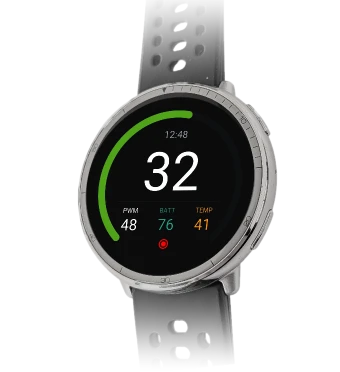
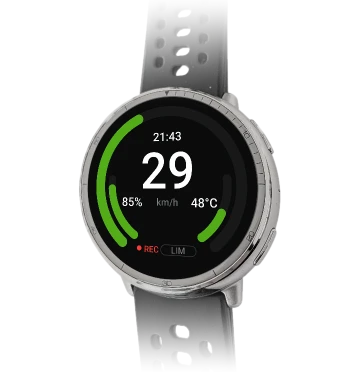
Home: default layouts in the hero, portal chart style, Garmin dashboard note
- Hero: no feature callouts; both watches show their default dashboards
  (Amazfit rebuilt from mainUI.js DefaultUI), more space between them,
  brand/model captions, Amazfit dial straightened so the screen is upright.
- Hero plot: Ride Portal metric colours and 2px lines, speed as a faded
  area, no grid; colours shared as --wd-chart-* tokens.
- Your layout: Garmin App capture with a note that the Garmin dashboard is
  fixed and custom layouts are Amazfit only.
- Fix watch-face bezels being taller than wide (theme image margin).

Claude-Session: https://claude.ai/code/session_0113Rbw9K8vn8adzvCaMpYEK

diff --git a/assets/css/main.scss b/assets/css/main.scss
@@ -20,6 +20,9 @@ search: false
   --wd-red-dark: #b91c1c;
   --wd-blue: #60a5fa;
   --wd-green: #34d399;
+  --wd-chart-speed: #3b82f6;
+  --wd-chart-battery: #10b981;
+  --wd-chart-temp: #f87171;
   --wd-amber: #fbbf24;
   --wd-radius: 16px;
   --vesc-blue: #079ed5;
@@ -101,43 +104,25 @@ p.wd-hero__lead { max-width: 620px; margin: 2rem 0; color: #bcc4cf; font-size: c
 .wd-hero__availability a span { color: var(--wd-red); }
 .wd-hero__availability a:hover { color: var(--wd-text); }
 .wd-hero__visual { position: relative; overflow: hidden; border: 1px solid var(--wd-border); border-radius: 22px; background: var(--wd-surface); box-shadow: 0 30px 90px rgba(0,0,0,.4); }
-.wd-hero__visual.wd-hero__watch { position: relative; width: 100%; max-width: 620px; margin-left: auto; overflow: visible; border: 0; border-radius: 0; background: none; box-shadow: none; aspect-ratio: 1390/1280; container-type: inline-size; }
+.wd-hero__visual.wd-hero__watch { position: relative; width: 100%; max-width: 620px; margin-left: auto; overflow: visible; border: 0; border-radius: 0; background: none; box-shadow: none; aspect-ratio: 1078/1280; container-type: inline-size; }
 .wd-hero__watch::before { position: absolute; z-index: 0; inset: -14% -22% -8%; background: radial-gradient(closest-side,rgba(70,86,112,.42),transparent 72%); content: ""; pointer-events: none; }
 .wd-hero__watch::after { position: absolute; z-index: 0; top: 43%; left: 30%; width: 127%; aspect-ratio: 1; background: radial-gradient(closest-side,transparent 79%,rgba(141,153,170,.14) 79.5%,transparent 80.2%,transparent 99%,rgba(141,153,170,.12) 99.6%,transparent 100%); content: ""; pointer-events: none; transform: translate(-50%,-50%); }
 .wd-hero__watch img { position: relative; z-index: 1; display: block; width: 100%; height: auto; }
-.wd-callouts { position: absolute; z-index: 3; inset: 0; margin: 0; padding: 0; list-style: none; }
-.wd-callout { position: absolute; top: var(--y); left: 0; width: 100%; height: 0; margin: 0; padding: 0; animation: wd-tag-in .7s both; }
-.wd-callout:nth-child(2) { animation-delay: .12s; }
-.wd-callout:nth-child(3) { animation-delay: .24s; }
-.wd-callout:nth-child(4) { animation-delay: .36s; }
-.wd-callout__lead { position: absolute; top: 0; left: var(--l); width: var(--w); height: 1px; background: rgba(141,153,170,.5); }
-.wd-callout__lead::before { position: absolute; top: -3.5px; left: -4px; width: 8px; height: 8px; border: 1.5px solid var(--wd-bg); border-radius: 50%; background: var(--c); box-sizing: border-box; content: ""; }
-.wd-callout.is-left .wd-callout__lead::before { right: -4px; left: auto; }
-.wd-callout__tag { position: absolute; top: 0; left: var(--tl); display: flex; width: var(--tw); min-width: 0; padding: 1.5cqw 1.9cqw; flex-direction: column; gap: .5cqw; border: 1px solid var(--wd-border); border-radius: 1.3cqw; background: rgba(14,19,26,.88); backdrop-filter: blur(6px); transform: translateY(-50%); }
-.wd-callout__tag span { color: var(--wd-muted); font-family: "JetBrains Mono", ui-monospace, monospace; font-size: max(.5rem,1.6cqw); letter-spacing: .14em; text-transform: uppercase; }
-.wd-callout__tag strong { color: var(--c); font-size: max(.9rem,3.5cqw); font-weight: 650; line-height: 1; }
-.wd-callout__tag small { color: var(--wd-muted); font-family: "JetBrains Mono", ui-monospace, monospace; font-size: .5em; font-weight: 500; text-transform: uppercase; }
-.wd-callout.is-white { --c: var(--wd-text); }
-.wd-callout--text .wd-callout__tag strong { font-size: max(.74rem,2.3cqw); font-weight: 650; line-height: 1.2; white-space: nowrap; }
-.wd-callout.is-green { --c: var(--wd-green); }
-.wd-callout.is-blue { --c: var(--wd-blue); }
-.wd-callout.is-amber { --c: var(--wd-amber); }
+p.wd-hero__model { position: absolute; z-index: 2; bottom: -.4rem; left: var(--x); margin: 0; color: var(--wd-muted); font-family: "JetBrains Mono", ui-monospace, monospace; font-size: .62rem; letter-spacing: .14em; text-transform: uppercase; white-space: nowrap; transform: translateX(-50%); }
 @media (min-width: 1025px) { .wd-hero { padding-left: clamp(1.5rem, calc((100vw - 1280px) / 2 + 1.5rem), calc(40px + 1.5rem)); } }
-@keyframes wd-tag-in { from { opacity: 0; } }
-@media (prefers-reduced-motion: reduce) { .wd-callout { animation: none; } }
 .wd-trace { max-width: 1280px; margin: -1rem auto 2.5rem; padding: 0 1.5rem; }
 .wd-trace svg { display: block; width: 100%; height: 90px; overflow: visible; }
-.wd-trace__grid { fill: none; stroke: rgba(141,153,170,.12); stroke-width: 1; vector-effect: non-scaling-stroke; }
-.wd-trace__line { fill: none; stroke-linejoin: round; vector-effect: non-scaling-stroke; }
-.wd-trace__line--speed { stroke: var(--wd-green); stroke-width: 1.75; }
-.wd-trace__line--battery { stroke: var(--wd-blue); stroke-opacity: .6; stroke-width: 1.25; }
-.wd-trace__line--temp { stroke: var(--wd-amber); stroke-opacity: .6; stroke-width: 1.25; }
+.wd-trace__area { fill: url(#wd-trace-fill); stroke: none; }
+.wd-trace__line { fill: none; stroke-linejoin: round; stroke-linecap: round; stroke-width: 2; vector-effect: non-scaling-stroke; }
+.wd-trace__line--speed { stroke: var(--wd-chart-speed); }
+.wd-trace__line--battery { stroke: var(--wd-chart-battery); stroke-opacity: .85; }
+.wd-trace__line--temp { stroke: var(--wd-chart-temp); stroke-opacity: .85; }
 p.wd-trace__legend { display: flex; margin: .7rem 0 0; flex-wrap: wrap; align-items: center; gap: .4rem 1.1rem; color: var(--wd-muted); font-family: "JetBrains Mono", ui-monospace, monospace; font-size: .62rem; letter-spacing: .13em; text-transform: uppercase; }
 .wd-trace__legend i { display: inline-flex; align-items: center; gap: .4rem; font-style: normal; }
-.wd-trace__legend i::before { width: 14px; height: 2px; background: var(--c); content: ""; }
-.wd-trace__legend .is-green { --c: var(--wd-green); }
-.wd-trace__legend .is-blue { --c: var(--wd-blue); }
-.wd-trace__legend .is-amber { --c: var(--wd-amber); }
+.wd-trace__legend i::before { width: 14px; height: 2px; border-radius: 1px; background: var(--c); content: ""; }
+.wd-trace__legend .is-speed { --c: var(--wd-chart-speed); }
+.wd-trace__legend .is-battery { --c: var(--wd-chart-battery); }
+.wd-trace__legend .is-temp { --c: var(--wd-chart-temp); }
 .wd-dashboards { border-top: 1px solid var(--wd-border); }
 .wd-dash-builder { display: grid; margin-bottom: 2.5rem; grid-template-columns: minmax(0,1fr) minmax(0,1fr); align-items: center; gap: clamp(2rem,5vw,4.5rem); }
 .wd-dash-anno { width: 100%; max-width: 520px; margin: 0; justify-self: center; }
@@ -166,36 +151,32 @@ ol.wd-dash-legend { display: grid; margin: 0; padding: 0; grid-template-columns:
 .wd-dash-face { display: flex; margin: 0; padding: 1.6rem 1.4rem 1.4rem; flex-direction: column; align-items: center; justify-content: space-between; gap: 1.2rem; border: 1px solid var(--wd-border); border-radius: var(--wd-radius); background: var(--wd-surface); }
 .wd-dash-face__bezel { box-sizing: border-box; width: 100%; max-width: 250px; aspect-ratio: 1; padding: 7px; border: 2px solid #2a3342; border-radius: 50%; background: #1a2029; box-shadow: 0 8px 22px rgba(0,0,0,.35); }
 .wd-dash-face--square .wd-dash-face__bezel { max-width: 230px; aspect-ratio: auto; border-radius: 34px; }
-.wd-dash-face__bezel img { display: block; width: 100%; height: auto; border-radius: 50%; }
+.wd-dash-face__bezel img { display: block; width: 100%; height: auto; margin: 0; border-radius: 50%; }
 .wd-dash-face--square .wd-dash-face__bezel img { border-radius: 26px; }
 .wd-dash-face figcaption { display: grid; gap: .35rem; font-family: Inter, system-ui, sans-serif; text-align: center; }
 .wd-dash-face span { letter-spacing: .06em; }
-.wd-dash-face span, .wd-dashboards__platforms, .wd-dashboards p.wd-dashboards__note { color: var(--wd-muted); font-family: "JetBrains Mono", ui-monospace, monospace; font-size: .62rem; letter-spacing: .12em; text-transform: uppercase; }
-.wd-dashboards__platforms { display: flex; margin: 2rem 0 0; padding: 0; flex-wrap: wrap; gap: .6rem 1.8rem; list-style: none; }
-.wd-dashboards__platforms li { display: inline-flex; margin: 0; align-items: center; gap: .5rem; }
-.wd-dashboards__platforms li::before { width: 7px; height: 7px; border-radius: 50%; background: var(--c,var(--wd-muted)); content: ""; }
-.wd-dashboards__platforms .is-green { --c: var(--wd-green); }
-.wd-dashboards__platforms .is-blue { --c: var(--wd-blue); }
+.wd-dash-face span, .wd-dashboards p.wd-dashboards__note { color: var(--wd-muted); font-family: "JetBrains Mono", ui-monospace, monospace; font-size: .62rem; letter-spacing: .12em; text-transform: uppercase; }
 .wd-dashboards p.wd-dashboards__note { margin: .9rem 0 0; opacity: .75; }
+.wd-dash-garmin { display: grid; margin-top: 2rem; grid-template-columns: minmax(0,1fr) minmax(0,3fr); gap: 1.25rem 2.5rem; align-items: center; }
+.wd-dash-garmin__copy { max-width: 560px; }
+.wd-dashboards p.wd-dash-garmin__label { margin: 0 0 .7rem; color: var(--wd-muted); font-family: "JetBrains Mono", ui-monospace, monospace; font-size: .62rem; letter-spacing: .14em; text-transform: uppercase; }
+.wd-dash-garmin h3 { margin: 0 0 .7rem; color: var(--wd-text); font-size: 1.2rem; letter-spacing: -.01em; }
+.wd-dashboards .wd-dash-garmin__copy p:not(.wd-dash-garmin__label) { margin: 0 0 .6rem; color: var(--wd-muted); font-size: .82rem; line-height: 1.7; }
+.wd-dashboards .wd-dash-garmin__copy p:last-child { color: var(--wd-text); }
 .wd-hero__promise a { color: #aeb7c4; font-weight: 750; text-decoration: none; white-space: nowrap; }
 .wd-hero__promise a span { color: var(--wd-red); }
 @media (max-width: 1100px) { .wd-dashboards__grid { grid-template-columns: repeat(2,minmax(0,1fr)); } }
 @media (max-width: 600px) {
   .wd-dashboards__grid { gap: .75rem; }
   .wd-dash-face { padding: 1rem .8rem; }
+  .wd-dash-garmin { grid-template-columns: 1fr; }
 }
 @media (max-width: 1180px) {
   .wd-hero { grid-template-columns: 1fr; }
   .wd-hero__visual.wd-hero__watch { width: 74%; max-width: 560px; margin: 1rem 4% 0 auto; }
 }
 @media (max-width: 600px) {
-  .wd-hero__visual.wd-hero__watch { width: 100%; margin: 0 0 5.5rem; }
-  .wd-callouts { top: 100%; bottom: auto; display: grid; height: auto; margin-top: .8rem; grid-template-columns: repeat(2,1fr); gap: .4rem; }
-  .wd-callout { position: static; width: auto; height: auto; }
-  .wd-callout__lead { display: none; }
-  .wd-callout__tag { position: static; width: auto; padding: .5rem .55rem; border-radius: 8px; transform: none; }
-  .wd-callout__tag span { font-size: .5rem; letter-spacing: .08em; }
-  .wd-callout__tag strong { font-size: 1rem; }
+  .wd-hero__visual.wd-hero__watch { width: 100%; margin: 0 0 2.5rem; }
   .wd-trace { padding: 0 1rem; }
 }
 .wd-direct { padding-top: clamp(3rem,6vw,5rem); }

diff --git a/_pages/home.md b/_pages/home.md
@@ -24,28 +24,21 @@ classes: wheeldash-home
     <p class="wd-hero__availability">For supported Garmin and Amazfit watches. Amazfit's optional EUC World mode is phone-relayed. Features vary by implementation. <a href="#platforms">Compare platforms <span aria-hidden="true">→</span></a></p>
   </div>
   <div class="wd-hero__visual wd-hero__watch">
-    <img src="/assets/images/wheeldash-hero-watches.webp" width="1390" height="1280" alt="Amazfit Active 2 and Garmin Fenix 7 Pro running WheelDash: a custom layout on the Amazfit and the fixed dashboard on the Garmin">
-    <ul class="wd-callouts" aria-label="Dashboard on each platform">
-      <li class="wd-callout wd-callout--text is-green is-left" style="--y:58.6%;--tl:-21%;--tw:24%">
-        <span class="wd-callout__lead" style="--l:3%;--w:7.4%" aria-hidden="true"></span>
-        <div class="wd-callout__tag"><span>Amazfit</span><strong>Custom layouts</strong></div>
-      </li>
-      <li class="wd-callout wd-callout--text is-white" style="--y:35.2%;--tl:80%;--tw:24%">
-        <span class="wd-callout__lead" style="--l:76.1%;--w:3.9%" aria-hidden="true"></span>
-        <div class="wd-callout__tag"><span>Garmin</span><strong>Fixed dashboard</strong></div>
-      </li>
-    </ul>
+    <img src="/assets/images/wheeldash-hero-watches.webp" width="1078" height="1280" alt="Amazfit Active 2 and Garmin fēnix 7 Pro running WheelDash">
+    <p class="wd-hero__model" style="--x:24.6%">Amazfit Active 2</p>
+    <p class="wd-hero__model" style="--x:71.4%">Garmin fēnix 7 Pro</p>
   </div>
 </section>
 
 <section class="wd-trace" aria-label="Real ride telemetry overlay: speed, battery and temperature">
   <svg viewBox="0 0 1312 90" preserveAspectRatio="none" role="img" aria-label="Speed, battery and temperature plotted over one real ride">
-    <path class="wd-trace__grid" d="M0 .5H1312M0 45.5H1312M0 89.5H1312"/>
+    <defs><linearGradient id="wd-trace-fill" x1="0" y1="0" x2="0" y2="1"><stop offset="0" stop-color="#3b82f6" stop-opacity=".32"/><stop offset="1" stop-color="#3b82f6" stop-opacity="0"/></linearGradient></defs>
+    <path class="wd-trace__area" d="M0 46 L13 58 L27 74 L40 36 L53 38 L66 59 L80 70 L93 82 L106 85 L119 77 L133 66 L146 50 L159 24 L172 42 L186 38 L199 26 L212 44 L225 80 L239 86 L252 86 L265 81 L278 49 L292 26 L305 56 L318 10 L331 25 L345 36 L358 44 L371 83 L384 84 L398 84 L411 84 L424 84 L437 84 L451 84 L464 84 L477 84 L490 84 L504 84 L517 84 L530 84 L543 84 L557 84 L570 84 L583 84 L596 84 L610 84 L623 84 L636 84 L649 84 L663 84 L676 84 L689 84 L702 48 L716 4 L729 4 L742 6 L755 31 L769 66 L782 80 L795 77 L808 77 L822 77 L835 77 L848 77 L861 77 L875 85 L888 66 L901 60 L914 34 L928 31 L941 39 L954 14 L967 30 L981 84 L994 86 L1007 84 L1020 23 L1034 52 L1047 82 L1060 63 L1073 70 L1087 29 L1100 44 L1113 71 L1126 57 L1140 53 L1153 86 L1166 86 L1179 46 L1193 23 L1206 23 L1219 39 L1232 48 L1246 25 L1259 48 L1272 50 L1285 24 L1299 86 L1312 86 L1312 90 L0 90 Z"/>
     <path class="wd-trace__line wd-trace__line--battery" d="M0 4 L13 6 L27 5 L40 13 L53 14 L66 13 L80 14 L93 12 L106 14 L119 15 L133 15 L146 17 L159 18 L172 17 L186 17 L199 17 L212 17 L225 15 L239 13 L252 13 L265 14 L278 19 L292 18 L305 17 L318 26 L331 31 L345 28 L358 29 L371 28 L384 28 L398 28 L411 28 L424 28 L437 28 L451 28 L464 28 L477 28 L490 28 L504 28 L517 28 L530 28 L543 28 L557 28 L570 28 L583 27 L596 25 L610 25 L623 25 L636 25 L649 25 L663 25 L676 25 L689 25 L702 28 L716 37 L729 40 L742 43 L755 43 L769 42 L782 40 L795 40 L808 40 L822 40 L835 40 L848 40 L861 40 L875 86 L888 39 L901 16 L914 17 L928 17 L941 16 L954 23 L967 24 L981 20 L994 20 L1007 20 L1020 28 L1034 30 L1047 27 L1060 28 L1073 31 L1087 36 L1100 36 L1113 36 L1126 36 L1140 38 L1153 37 L1166 36 L1179 40 L1193 44 L1206 46 L1219 48 L1232 48 L1246 53 L1259 55 L1272 57 L1285 63 L1299 60 L1312 60"/>
     <path class="wd-trace__line wd-trace__line--temp" d="M0 61 L13 63 L27 80 L40 71 L53 61 L66 60 L80 53 L93 50 L106 39 L119 4 L133 4 L146 17 L159 30 L172 40 L186 44 L199 45 L212 48 L225 48 L239 61 L252 68 L265 52 L278 35 L292 32 L305 38 L318 40 L331 38 L345 41 L358 43 L371 43 L384 43 L398 43 L411 43 L424 43 L437 43 L451 43 L464 43 L477 43 L490 43 L504 43 L517 43 L530 43 L543 43 L557 43 L570 43 L583 49 L596 86 L610 86 L623 86 L636 86 L649 86 L663 86 L676 86 L689 86 L702 67 L716 43 L729 34 L742 33 L755 36 L769 35 L782 52 L795 59 L808 59 L822 59 L835 59 L848 59 L861 59 L875 62 L888 64 L901 39 L914 22 L928 26 L941 30 L954 30 L967 28 L981 30 L994 30 L1007 38 L1020 48 L1034 31 L1047 36 L1060 46 L1073 37 L1087 29 L1100 30 L1113 37 L1126 38 L1140 37 L1153 46 L1166 60 L1179 51 L1193 37 L1206 33 L1219 32 L1232 30 L1246 28 L1259 20 L1272 18 L1285 24 L1299 25 L1312 25"/>
     <path class="wd-trace__line wd-trace__line--speed" d="M0 46 L13 58 L27 74 L40 36 L53 38 L66 59 L80 70 L93 82 L106 85 L119 77 L133 66 L146 50 L159 24 L172 42 L186 38 L199 26 L212 44 L225 80 L239 86 L252 86 L265 81 L278 49 L292 26 L305 56 L318 10 L331 25 L345 36 L358 44 L371 83 L384 84 L398 84 L411 84 L424 84 L437 84 L451 84 L464 84 L477 84 L490 84 L504 84 L517 84 L530 84 L543 84 L557 84 L570 84 L583 84 L596 84 L610 84 L623 84 L636 84 L649 84 L663 84 L676 84 L689 84 L702 48 L716 4 L729 4 L742 6 L755 31 L769 66 L782 80 L795 77 L808 77 L822 77 L835 77 L848 77 L861 77 L875 85 L888 66 L901 60 L914 34 L928 31 L941 39 L954 14 L967 30 L981 84 L994 86 L1007 84 L1020 23 L1034 52 L1047 82 L1060 63 L1073 70 L1087 29 L1100 44 L1113 71 L1126 57 L1140 53 L1153 86 L1166 86 L1179 46 L1193 23 L1206 23 L1219 39 L1232 48 L1246 25 L1259 48 L1272 50 L1285 24 L1299 86 L1312 86"/>
   </svg>
-  <p class="wd-trace__legend"><span>Real ride · 14,847 samples</span><i class="is-green">Speed</i><i class="is-blue">Battery</i><i class="is-amber">Temp</i></p>
+  <p class="wd-trace__legend"><span>Real ride · 14,847 samples</span><i class="is-speed">Speed</i><i class="is-battery">Battery</i><i class="is-temp">Temp</i></p>
 </section>
 
 <section class="wd-section wd-direct" aria-labelledby="direct-title">
@@ -154,11 +147,18 @@ classes: wheeldash-home
       <figcaption><span>Square · 6 labelled values</span></figcaption>
     </figure>
   </div>
-  <ul class="wd-dashboards__platforms" aria-label="Dashboard customization by platform">
-    <li class="is-green">Amazfit · custom layouts, round and square</li>
-    <li class="is-blue">Garmin Datafield · 6 or 8 configurable fields</li>
-    <li>Garmin App · fixed dashboard</li>
-  </ul>
+  <div class="wd-dash-garmin">
+    <figure class="wd-dash-face">
+      <div class="wd-dash-face__bezel"><img src="/assets/images/dashboards/garmin-app.webp" width="720" height="720" loading="lazy" alt="Garmin App dashboard: speed in the centre, PWM on the top arc, battery and temperature on the side arcs"></div>
+      <figcaption><span>Garmin App</span></figcaption>
+    </figure>
+    <div class="wd-dash-garmin__copy">
+      <p class="wd-dash-garmin__label">On Garmin</p>
+      <h3>One fixed dashboard.</h3>
+      <p>The Garmin App shows the same dashboard on every watch: speed in the centre, PWM on the top arc by default, battery and temperature on the side arcs. The Garmin Datafield shows 6 or 8 fields you choose.</p>
+      <p>Fully custom layouts like the ones above are Amazfit only.</p>
+    </div>
+  </div>
   <p class="wd-dashboards__note">Example layouts, drawn with the Ride Portal's watch preview.</p>
 </section>
 
